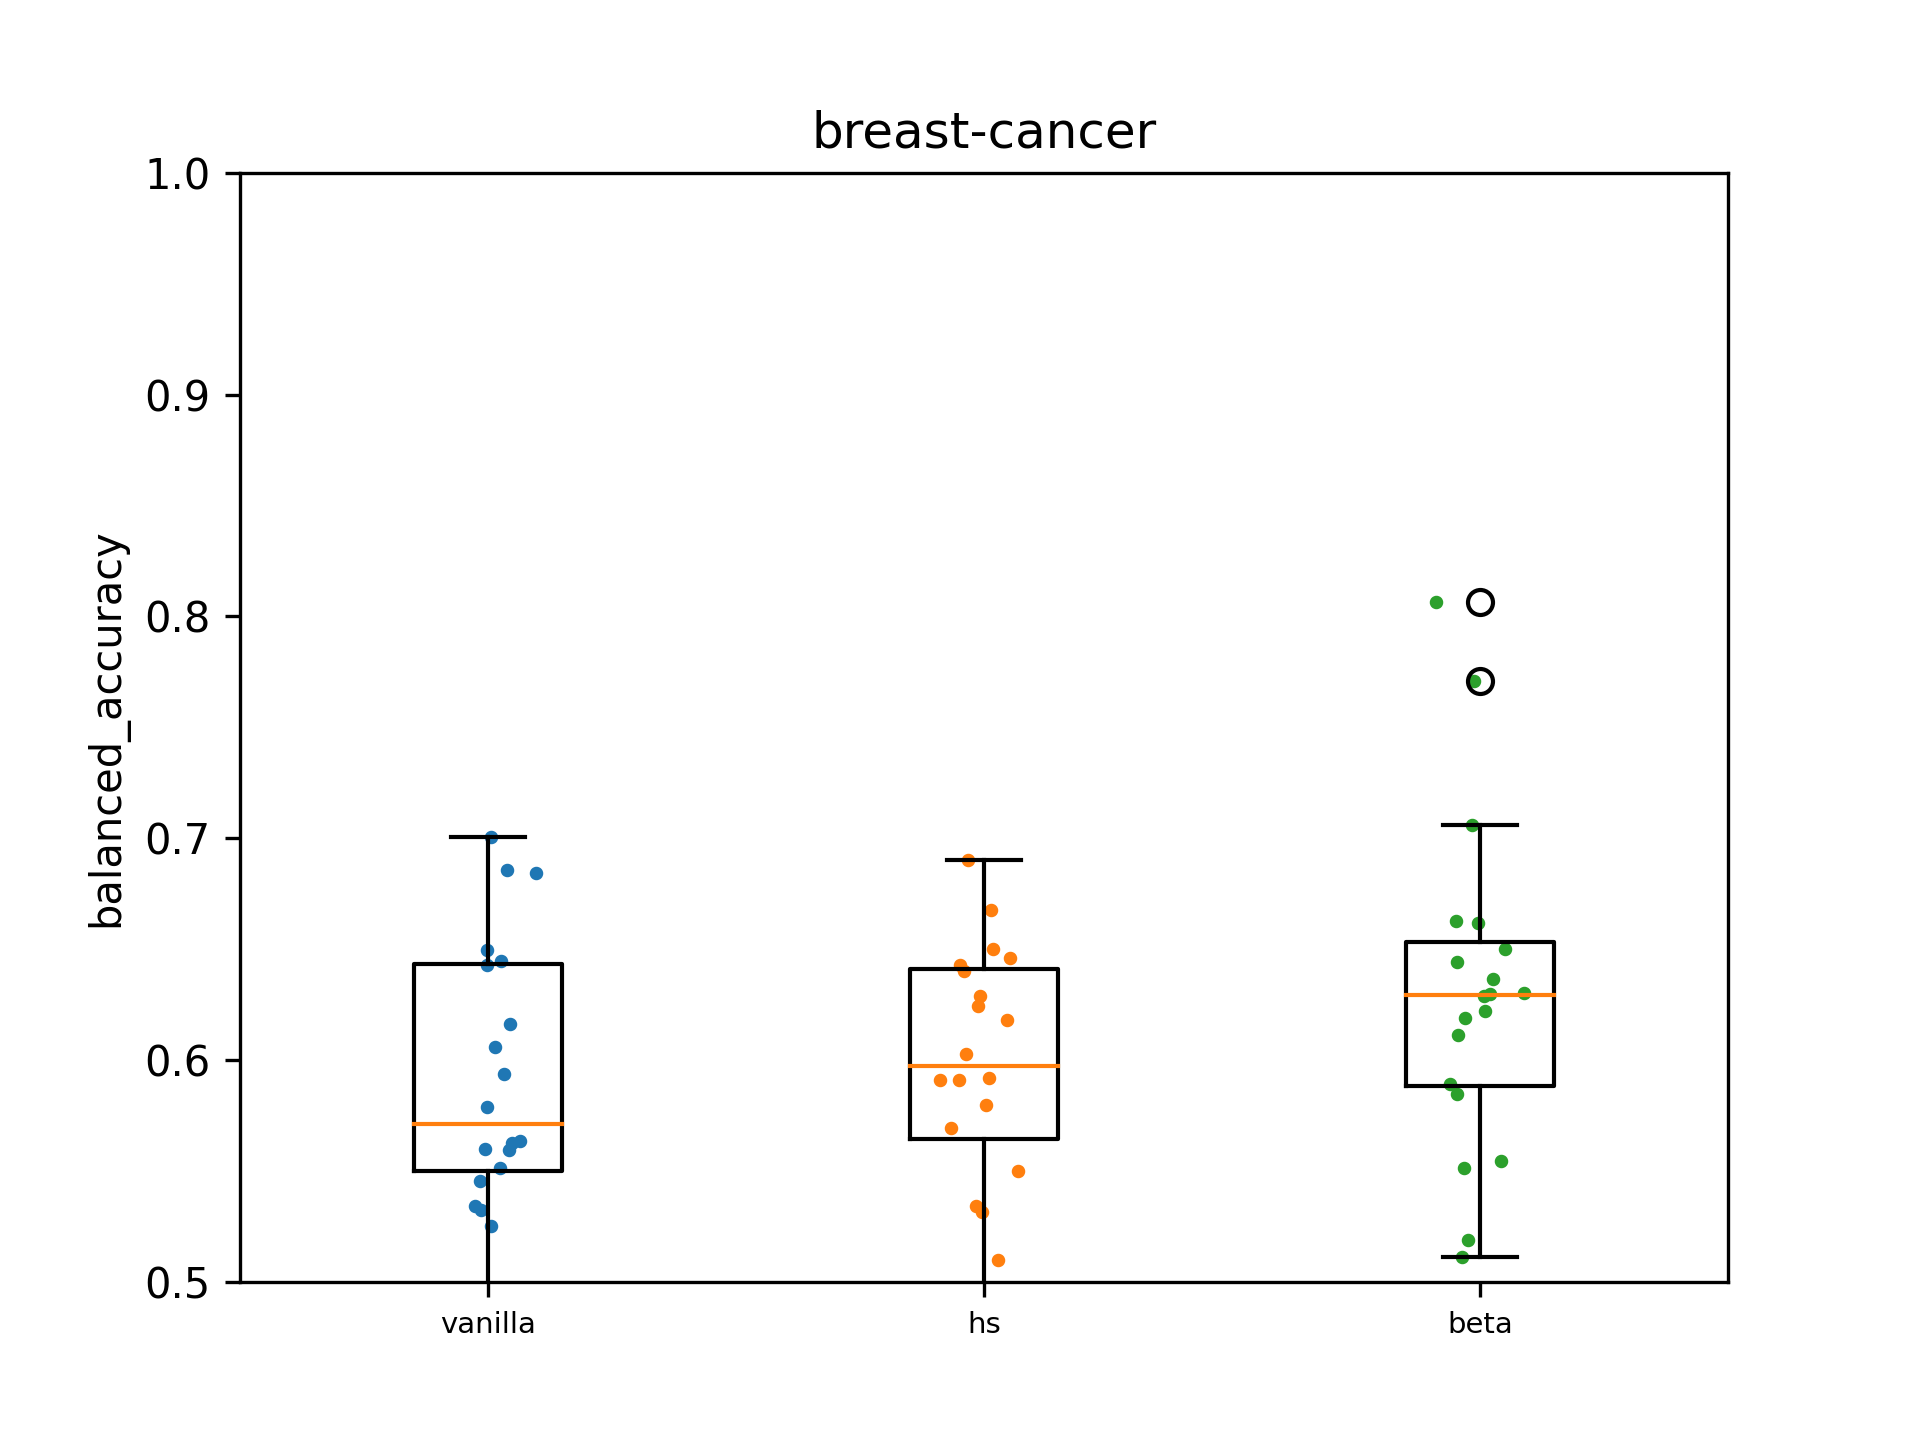
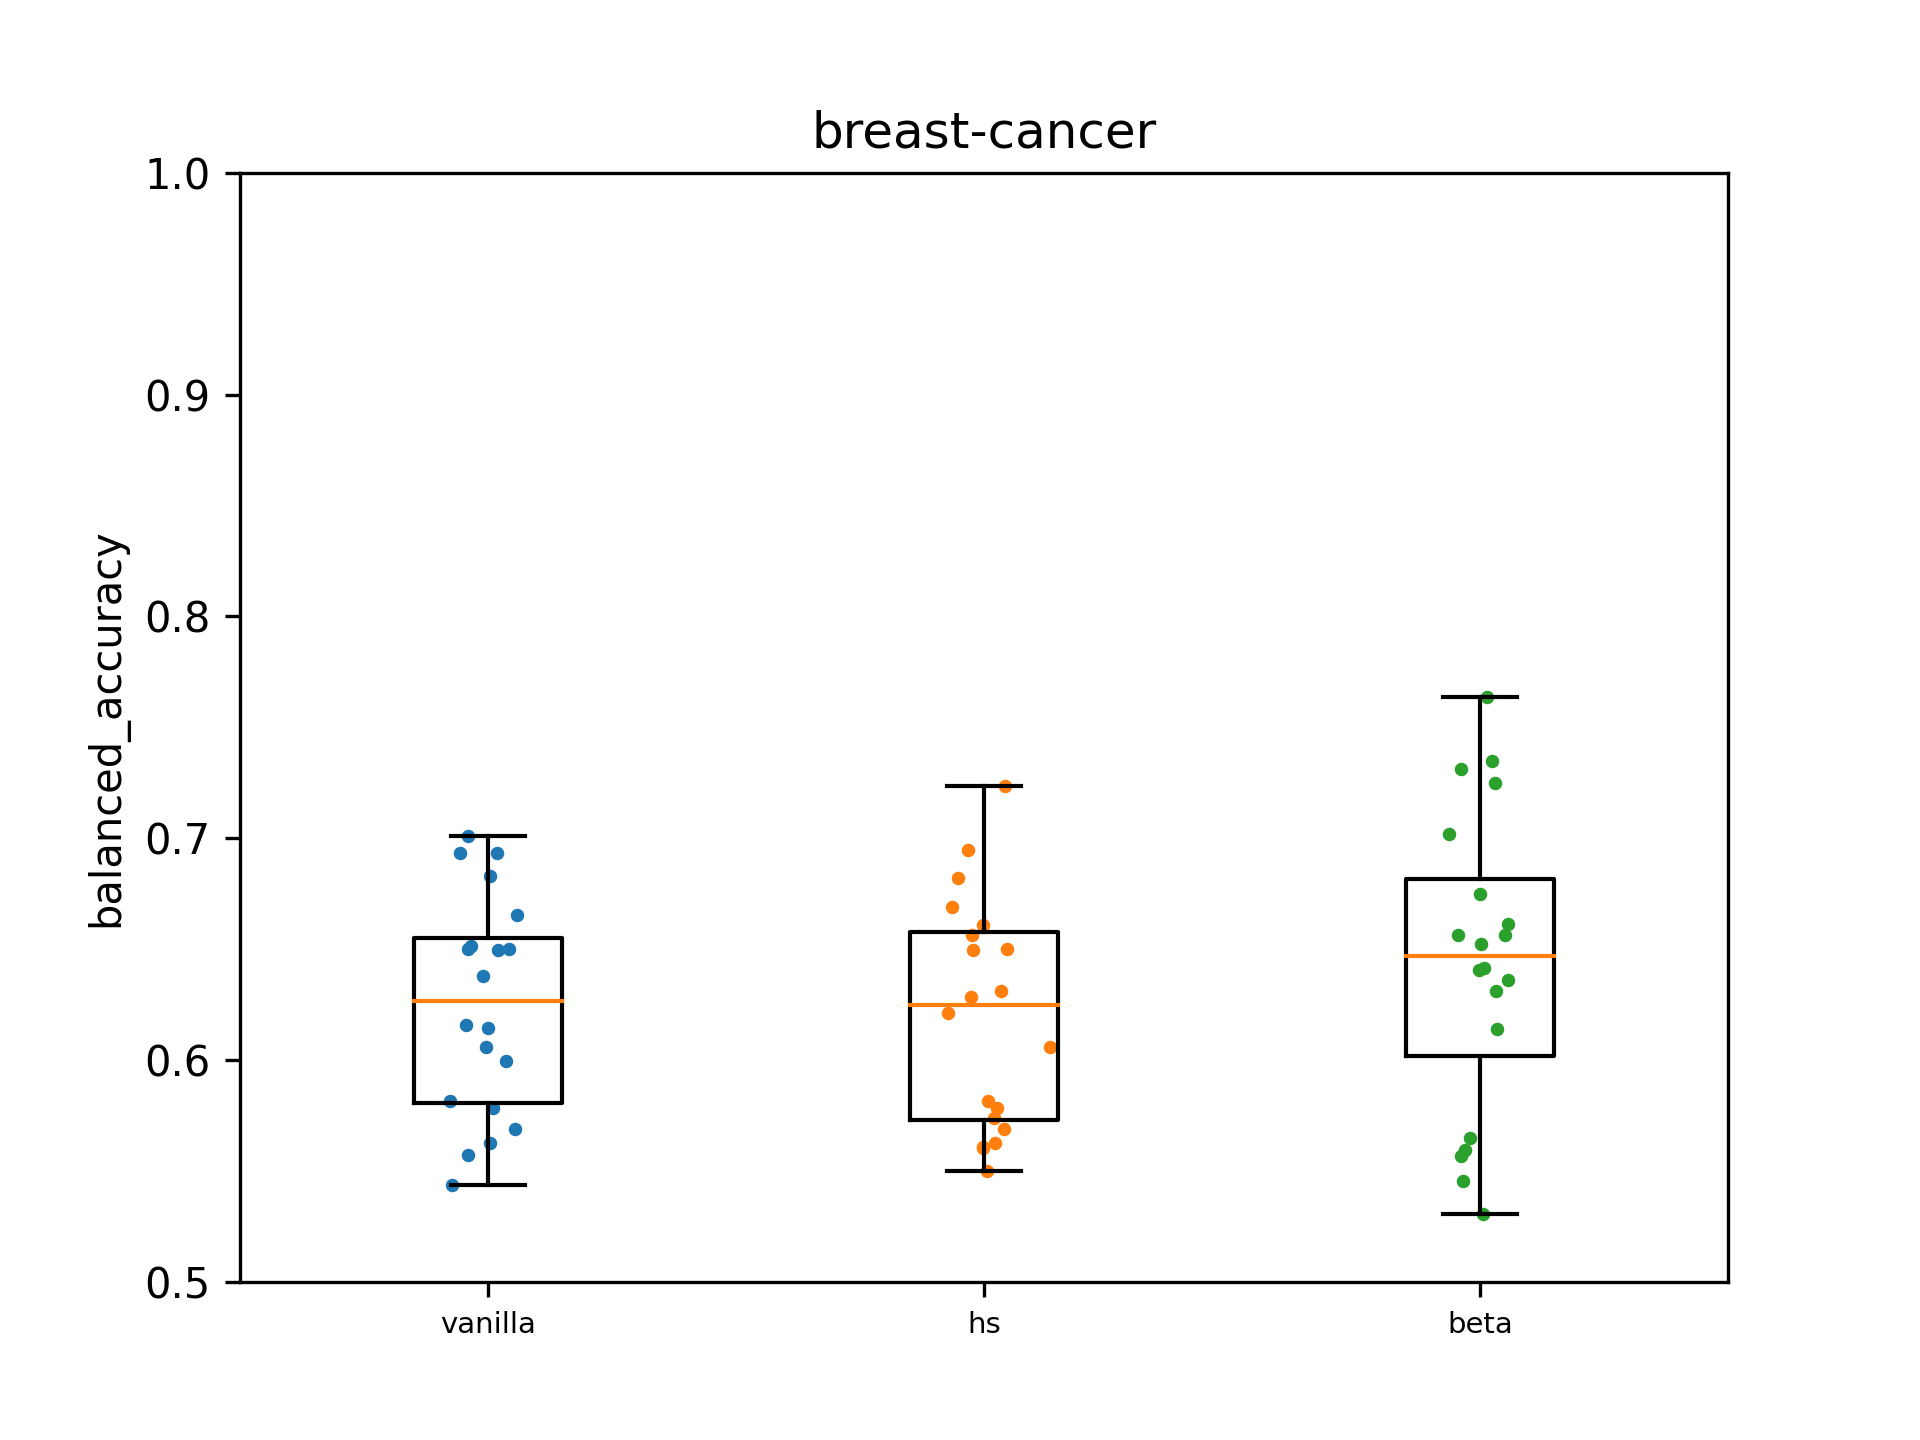
update

diff --git a/performance_tests3.py b/performance_tests3.py
@@ -53,7 +53,7 @@ clf_datasets = [
 sc = "balanced_accuracy"
 #sc = "roc_auc"
 #ntrees = c("1","2","5","10","50","100")
-ntrees = 10
+ntrees = 100
 iterations = np.arange(0, 20, 1)
 
 for ds_name, id, source in clf_datasets:
